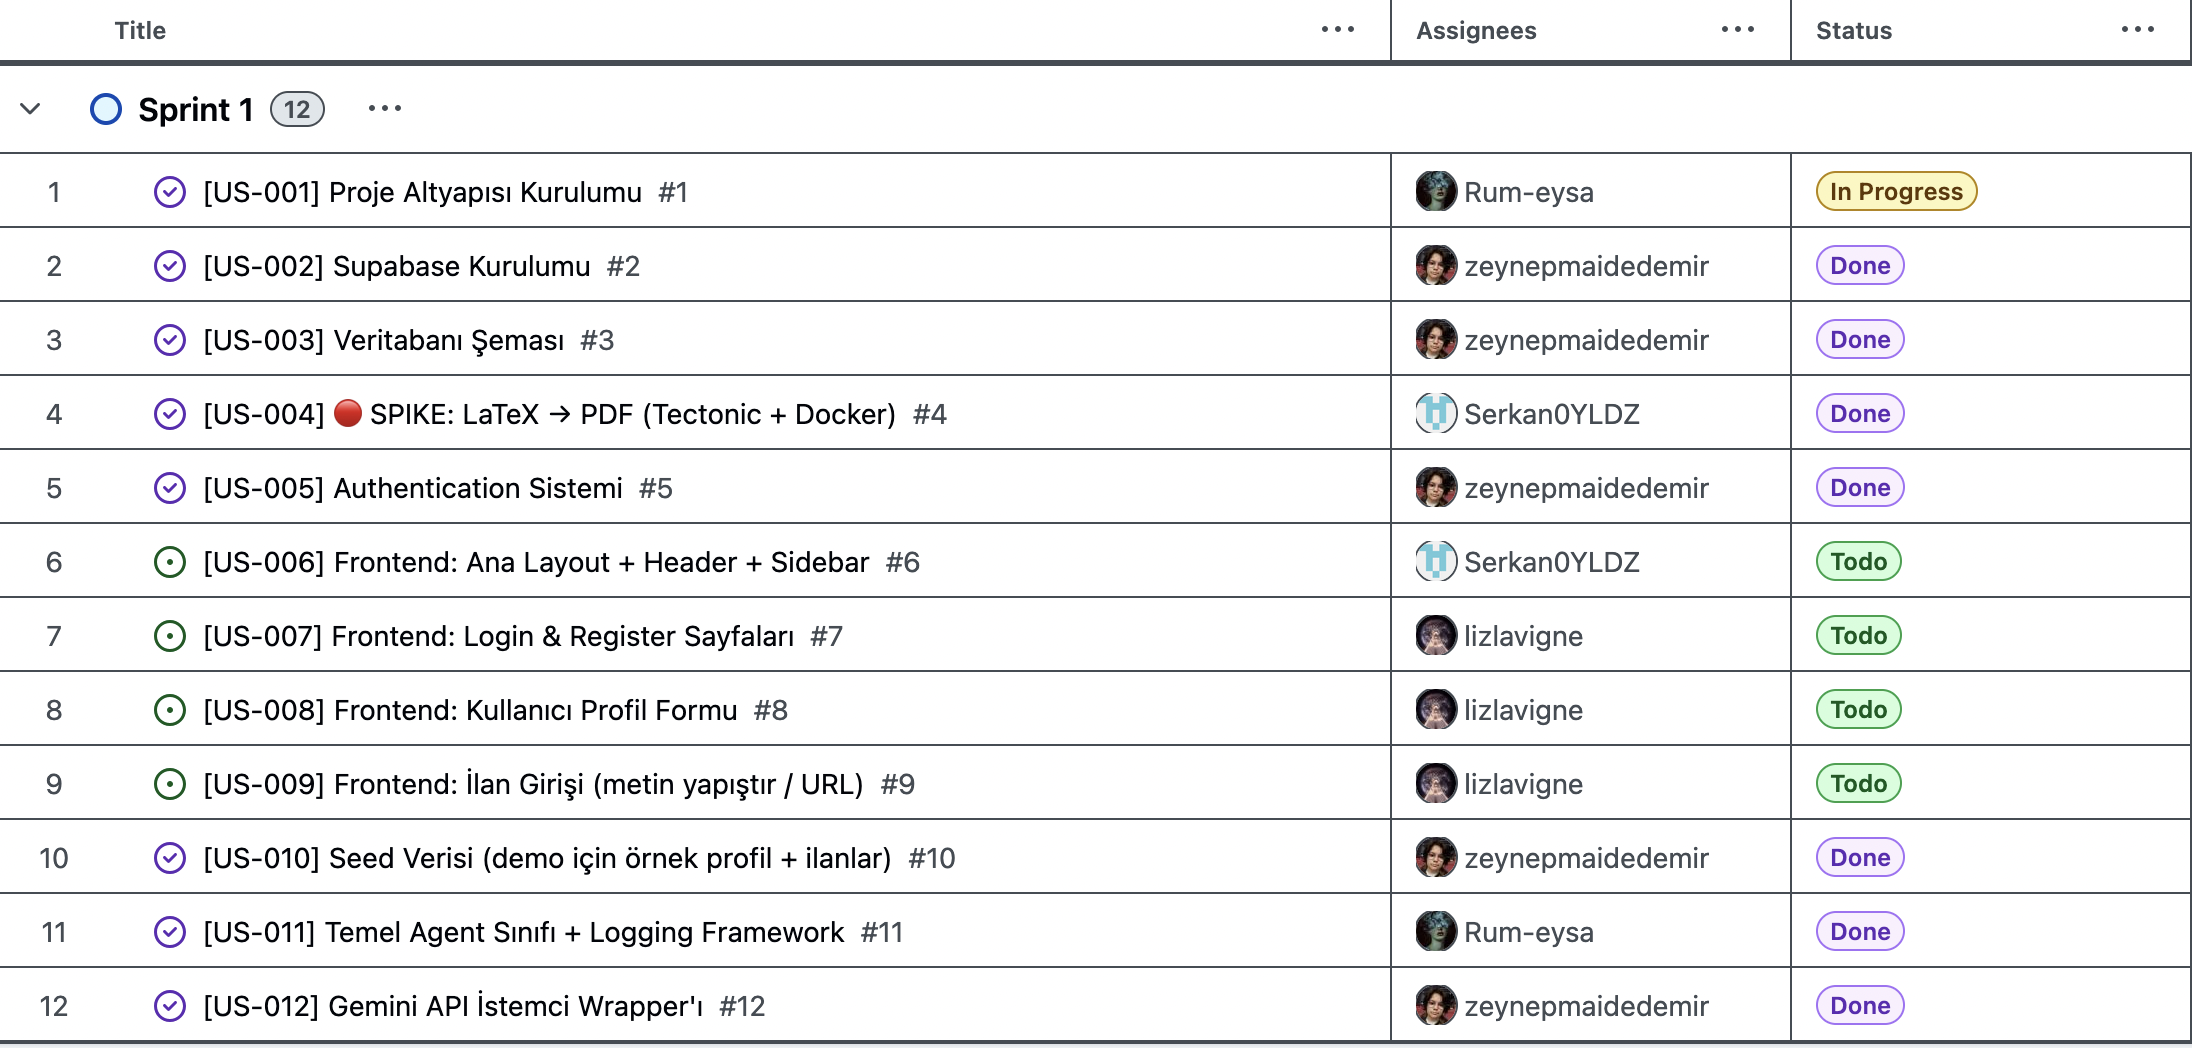
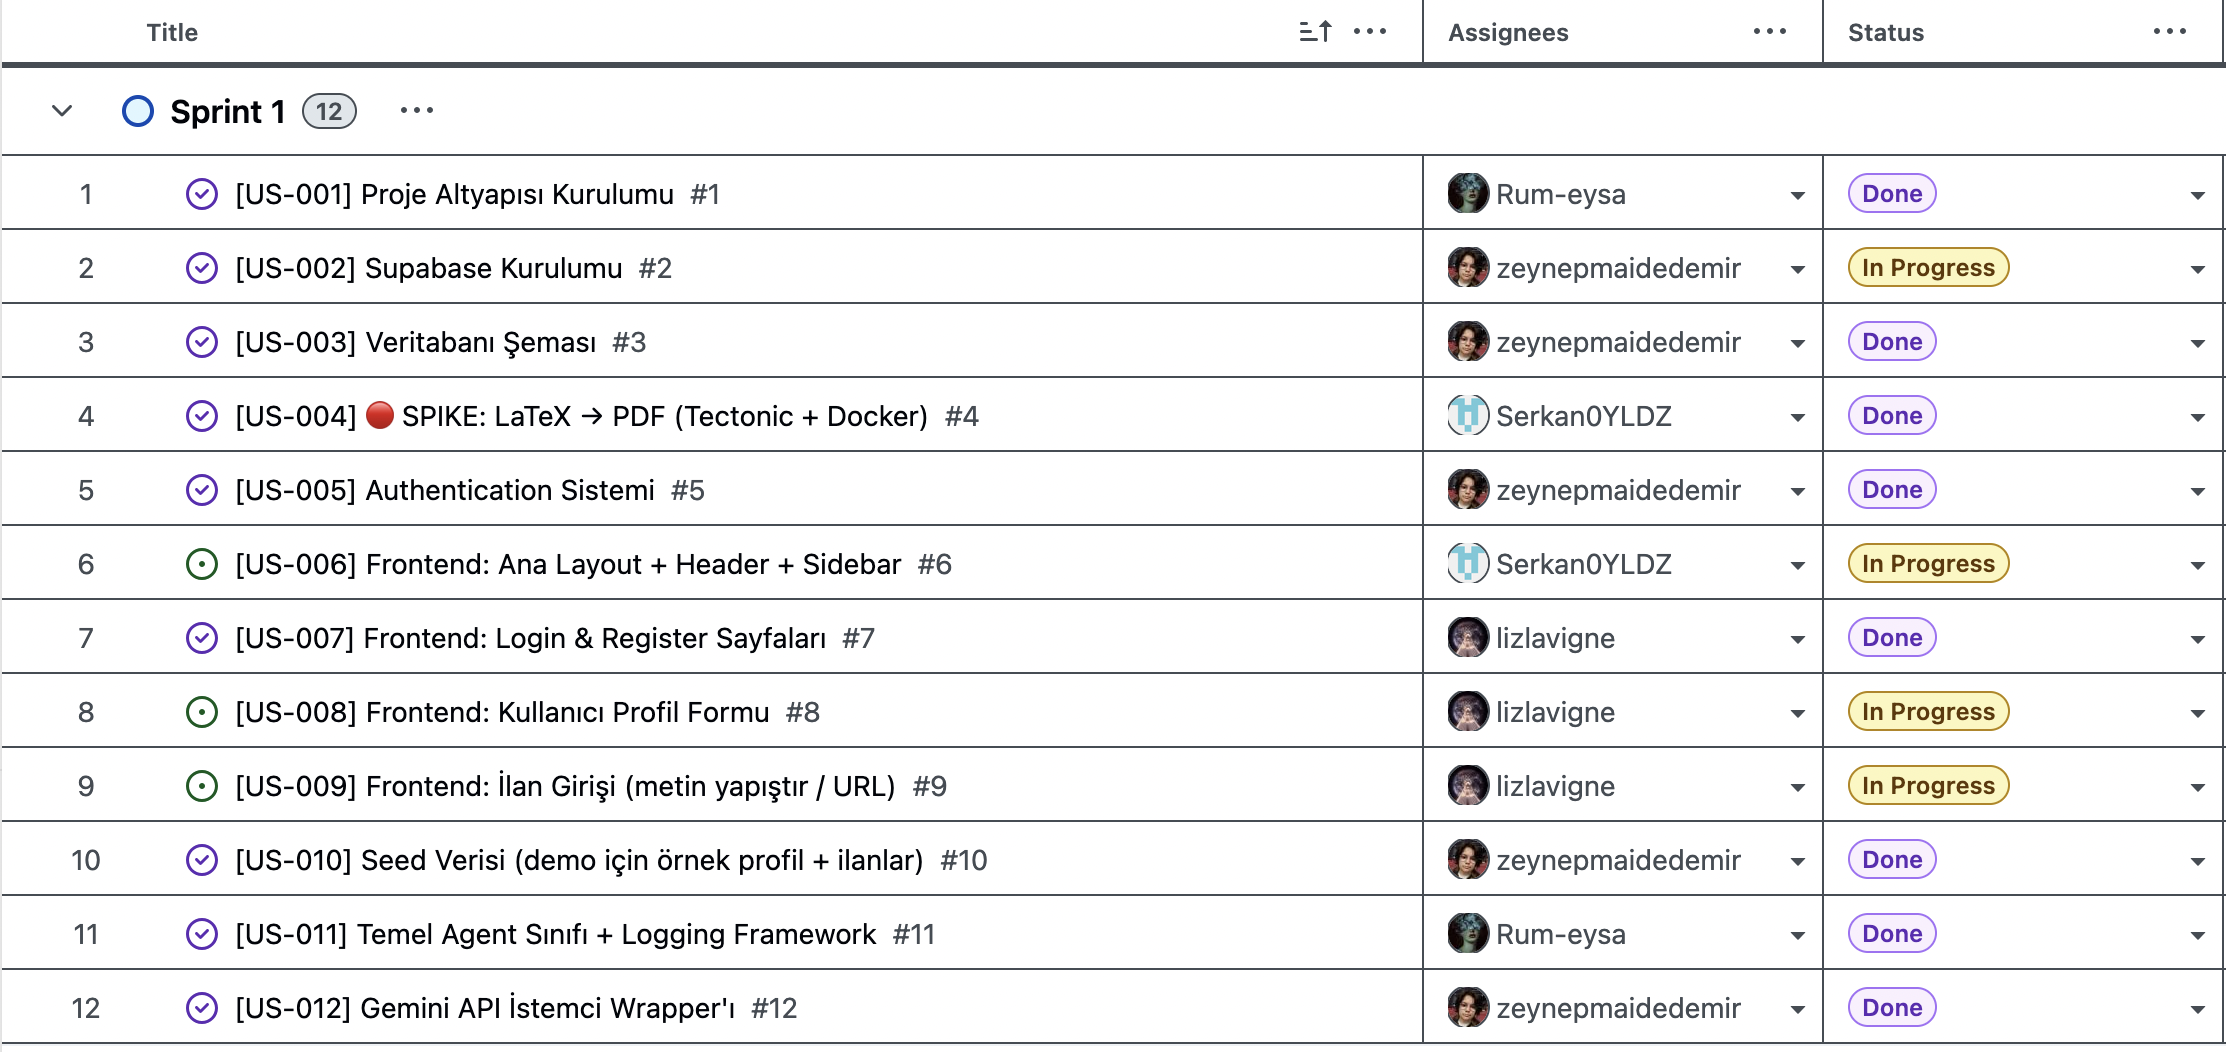
docs(readme): complete Sprint 1 docs and fix API validation handler

diff --git a/apps/api/app/services/listing_fetch.py b/apps/api/app/services/listing_fetch.py
@@ -28,8 +28,6 @@ async def fetch_listing_text_from_url(url: str) -> str:
         text = response.text.strip()
 
     if len(text) < 50:
-        raise ValidationException(
-            "URL'den çıkarılan metin çok kısa (en az 50 karakter gerekli)"
-        )
+        raise ValidationException("URL'den çıkarılan metin çok kısa (en az 50 karakter gerekli)")
 
     return text[:20_000]

diff --git a/apps/api/app/main.py b/apps/api/app/main.py
@@ -22,6 +22,7 @@ from app.routes import (
 )
 from app.services.storage import get_storage_service
 from fastapi import FastAPI, Request, status
+from fastapi.encoders import jsonable_encoder
 from fastapi.exceptions import RequestValidationError
 from fastapi.middleware.cors import CORSMiddleware
 from fastapi.middleware.gzip import GZipMiddleware
@@ -104,7 +105,7 @@ async def api_exception_handler(request: Request, exc: APIException):
 async def validation_exception_handler(request: Request, exc: RequestValidationError):
     return JSONResponse(
         status_code=status.HTTP_422_UNPROCESSABLE_ENTITY,
-        content={"detail": "Request validation failed", "errors": exc.errors()},
+        content=jsonable_encoder({"detail": "Request validation failed", "errors": exc.errors()}),
     )
 
 

diff --git a/README.md b/README.md
@@ -10,7 +10,7 @@
 
 **Yapay zeka destekli kişiselleştirilmiş CV ile önyazı oluşturma ve başvuru takip platformu**
 
-[Özellikler](#-özellikler) • [Hızlı Başlangıç](#-hızlı-başlangıç) • [Mimari](#-mimari) • [API Dokümantasyonu](#-api-dokümantasyonu) • [Katkıda Bulunma](#-katkıda-bulunma)
+[Ürün Özellikleri](#ürün-özellikleri) • [Sprint Planı](#sprint-planı) • [Mimari](#mimari) • [Hızlı Başlangıç](#hızlı-başlangıç) • [API Dokümantasyonu](#api-dokümantasyonu) • [Katkıda Bulunma](#katkıda-bulunma)
 
 </div>
 
@@ -93,22 +93,25 @@ Proje backlog bilgileri GitHub Projects üzerinden yönetilmektedir:
 
   ![GitHub Project Board](docs/sprint-1/github-project-board.png)
 
-- **Sprint Puanlaması:** Her user story sabit 10 puan olarak değerlendirilmiştir. Toplam 120 puan (12 story); tamamlanan 120 puan (12 story, %100). Sprint 1 kapsamındaki tüm user story'ler tamamlanmıştır.
+- **Sprint Puanlaması:** Sprint 1 planı (19 Haziran – 5 Temmuz) toplam **62 story point** (12 user story). Story point'ler görev karmaşıklığına göre planlanmıştır (3–8 SP arası). Kod denetimi sonucu: **8 story tamamlandı**, **4 story kısmen tamamlandı** — kazanılan **~54 / 62 SP (%87)**. 
 
-  | Story | Başlık | Durum | Sorumlu |
-  | ----- | ------ | ----- | ------- |
-  | US-001 | Proje Altyapısı Kurulumu | Done | [@Rum-eysa](https://github.com/Rum-eysa) |
-  | US-002 | Supabase Kurulumu | Done | [@zeynepmaidedemir](https://github.com/zeynepmaidedemir) |
-  | US-003 | Veritabanı Şeması | Done | [@zeynepmaidedemir](https://github.com/zeynepmaidedemir) |
-  | US-004 | SPIKE: LaTeX → PDF (Tectonic + Docker) | Done | [@Serkan0YLDZ](https://github.com/Serkan0YLDZ) |
-  | US-005 | Authentication Sistemi | Done | [@zeynepmaidedemir](https://github.com/zeynepmaidedemir) |
-  | US-006 | Frontend: Ana Layout + Header + Sidebar | Done | [@Serkan0YLDZ](https://github.com/Serkan0YLDZ) |
-  | US-007 | Frontend: Login & Register Sayfaları | Done | [@lizlavigne](https://github.com/lizlavigne) |
-  | US-008 | Frontend: Kullanıcı Profil Formu | Done | [@lizlavigne](https://github.com/lizlavigne) |
-  | US-009 | Frontend: İlan Girişi (metin yapıştır / URL) | Done | [@lizlavigne](https://github.com/lizlavigne) |
-  | US-010 | Seed Verisi | Done | [@zeynepmaidedemir](https://github.com/zeynepmaidedemir) |
-  | US-011 | Temel Agent Sınıfı + Logging Framework | Done | [@Rum-eysa](https://github.com/Rum-eysa) |
-  | US-012 | Gemini API İstemci Wrapper'ı | Done | [@zeynepmaidedemir](https://github.com/zeynepmaidedemir) |
+  | Story | Başlık | SP | Öncelik | Durum | Kazanılan | Eksik (Sprint 2'ye taşınan) | Sorumlu |
+  | ----- | ------ | -- | ------- | ----- | --------- | --------------------------- | ------- |
+  | US-001 | Proje Altyapısı Kurulumu | 8 | must-have | ✅ Tamamlandı | 8 | — | [@Rum-eysa](https://github.com/Rum-eysa) |
+  | US-002 | Supabase Kurulumu | 5 | must-have | ⚠️ Kısmen | 3 | Supabase Auth/Storage yok; yalnızca DB bağlantısı + MinIO | [@zeynepmaidedemir](https://github.com/zeynepmaidedemir) |
+  | US-003 | Veritabanı Şeması | 5 | must-have | ✅ Tamamlandı | 5 | `agent_tasks` migration drift (minor) | [@zeynepmaidedemir](https://github.com/zeynepmaidedemir) |
+  | US-004 | SPIKE: LaTeX → PDF (Tectonic + Docker) | 8 | must-have | ✅ Tamamlandı | 8 | — | [@Serkan0YLDZ](https://github.com/Serkan0YLDZ) |
+  | US-005 | Authentication Sistemi | 5 | must-have | ✅ Tamamlandı | 5 | `/api/analyze` JWT korumasız (minor) | [@zeynepmaidedemir](https://github.com/zeynepmaidedemir) |
+  | US-006 | Frontend: Ana Layout + Header + Sidebar | 5 | must-have | ⚠️ Kısmen | 3 | Sidebar, mobil hamburger, dark mode | [@Serkan0YLDZ](https://github.com/Serkan0YLDZ) |
+  | US-007 | Frontend: Login & Register Sayfaları | 5 | must-have | ✅ Tamamlandı | 5 | Server logout / token refresh UI (minor) | [@lizlavigne](https://github.com/lizlavigne) |
+  | US-008 | Frontend: Kullanıcı Profil Formu | 5 | high | ⚠️ Kısmen | 3 | `seniority`, `experience_years`, `tone_preference`; deneyim/eğitim CRUD | [@lizlavigne](https://github.com/lizlavigne) |
+  | US-009 | Frontend: İlan Girişi (metin / URL) | 3 | must-have | ⚠️ Kısmen | 2 | URL input gizli; ilan metadata API'ye gitmiyor | [@lizlavigne](https://github.com/lizlavigne) |
+  | US-010 | Seed Verisi | 3 | high | ⚠️ Kısmen | 2 | `matches` / `documents` seed yok | [@zeynepmaidedemir](https://github.com/zeynepmaidedemir) |
+  | US-011 | Temel Agent Sınıfı + Logging Framework | 5 | high | ✅ Tamamlandı | 5 | — (+ 4 domain agent bonus) | [@Rum-eysa](https://github.com/Rum-eysa) |
+  | US-012 | Gemini API İstemci Wrapper'ı | 5 | must-have | ✅ Tamamlandı | 5 | — | [@zeynepmaidedemir](https://github.com/zeynepmaidedemir) |
+  | | **Toplam** | **62** | | **8 tam · 4 kısmen** | **~54** | **~8 SP borç → Sprint 2** | |
+
+  **Özet:** Planlanan 62 SP'nin ~54'ü kazanıldı. Kısmi story'lerde toplam ~8 SP'lik iş Sprint 2 borç listesine taşındı. Sprint 1 kapsamı dışında erken tamamlanan bonus işler: 4 AI agent modülü, `POST /api/analyze`, MinIO depolama (~62 pytest).
 
 - **Daily Scrum:** Ekip 2 günde bir Slack Huddle üzerinden senkron toplantı yapmıştır. 
 
@@ -130,7 +133,7 @@ Proje backlog bilgileri GitHub Projects üzerinden yönetilmektedir:
 
   ![Ürün durumu — İlan Ekle](docs/sprint-1/urun-durumu-ilan-ekle.png)
 
-- **Sprint Review:** Sprint 1 hedefleri tamamlanmıştır (120/120 puan). Çıkan ürün testlerde kritik bir sorun göstermemiştir.
+- **Sprint Review:** Sprint 1 hedeflerinin büyük çoğunluğu tamamlandı (**~54 / 62 SP, %87**). Çıkan ürün testlerde kritik bir sorun göstermemiştir. 
 
   **Tamamlananlar:**
   - Monorepo altyapısı: FastAPI + Next.js + Docker Compose (PostgreSQL, Redis, MinIO)
@@ -146,23 +149,20 @@ Proje backlog bilgileri GitHub Projects üzerinden yönetilmektedir:
   - İlan analizi sonuçları şimdilik frontend'de sessionStorage ile tutuluyor; kalıcı başvuru takibi Sprint 2'ye planlandı
   - CV/önyazı üretimi backend'de hazır; kullanıcı arayüzüne uçtan uca entegrasyon Sprint 2 kapsamına alındı
 
-- **Sprint Retrospective:**
-  - **İyi giden:** Backend ve agent altyapısı erken tamamlandı; ekip 2 günde bir Slack Huddle ile düzenli ilerleme paylaştı.
-  - **İyileştirme:** Story point'ler sabit 10 puan verildi; Sprint 2'de görev karmaşıklığına göre farklılaştırılmalı.
-  - **İyileştirme:** GitHub Projects board'u sprint sonu kod durumuyla senkron tutulmalı.
-  - **Sprint 2 planı:** Başvuru takip dashboard'u (değerlendirme aşamaları), CV/önyazı üretim akışının UI entegrasyonu, frontend–backend E2E testleri ve analiz sonuçlarının veritabanında kalıcı saklanması.
+- **Sprint Retrospective:** 
+
+  - **İyi giden:** Backend ve agent altyapısı erken tamamlandı.
+  - **İyileştirme:** GitHub Projects board'u sprint sonu koxwd durumuyla senkron tutuldu.
+  - **İyileştirme:** Kısmi story'lerde eksik AC'ler Sprint 2 borç listesine taşındı (~8 SP).
+  - **Sprint 2 planlandı:** Sprint 1 retrospective sonrası Sprint 2 backlog'u revize edildi.
 
 </details>
 
 ### Sprint 2
-- AI destekli analiz akışının entegrasyonu
-- Kullanıcı deneyimini iyileştiren temel arayüz güncellemeleri
-- Geliştirme ve test süreçlerinin güçlendirilmesi
+
 
 ### Sprint 3
-- Performans iyileştirmeleri ve hata düzeltmeleri
-- Kullanıcı geri bildirimlerine göre iyileştirmeler
-- Son kullanıcıya hazır hale getirme çalışmaları
+
 
 ## Mimari
 